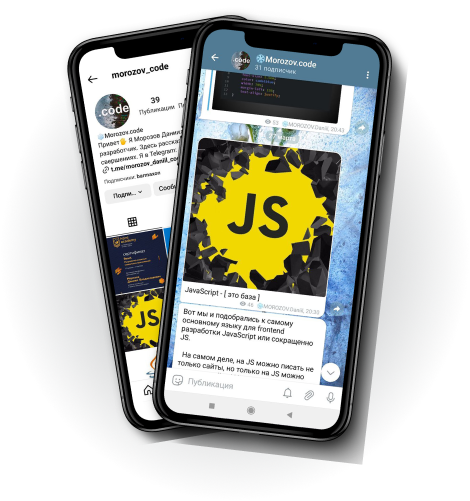
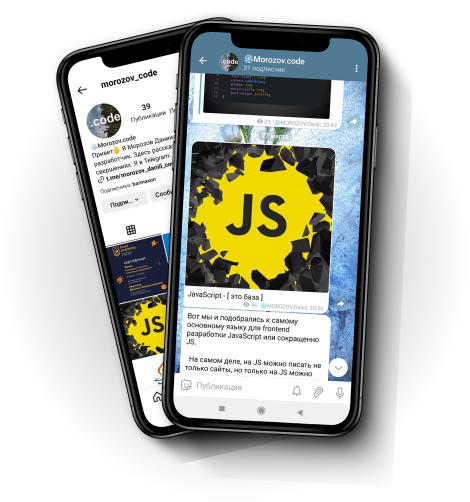
Задаст стили для blog

Changed region(s): [[0.1191, 0.0299, 0.8638, 0.9581]]

diff --git a/style.css b/style.css
@@ -274,37 +274,96 @@ section {
 	border: unset;
 }
 
-.blog {}
+.blog {
+	background-image: url('img/background/blog.png');
+	background-position: top center;
+}
 
 .blog__container {}
 
-.blog__block--title {}
+.blog__block--title {
+	padding-top: 8.5rem;
+}
 
-.blog__title {}
+.blog__title {
+	height: 10rem;
+	display: flex;
+	align-items: center;
+	padding-left: 2rem;
+	border-left: 1rem solid #FFF678;
+	color: rgba(255, 255, 255, 0.60);
+}
 
-.blog__block--description {}
+.blog__block--description {
+	display: flex;
+	justify-content: space-evenly;
+}
 
-.blog__img {}
+.blog__img {
+	width: 50rem;
+	height: 47rem;
+	background: url('img/smartphone.png') no-repeat center;
+}
 
 .blog__wrapper {}
 
-.blog__wrap-text {}
+.blog__wrap-text {
+	padding-top: 4rem;
+	margin-bottom: 4rem;
+}
 
-.blog__text {}
+.blog__text--yellow {
+	color: #FDEC0B;
+	font-size: 2rem;
+	font-weight: 700;
+}
 
-.blog__text--yellow {}
+.blog__text {
+	width: 31rem;
+	color: #FFF;
+	font-size: 2rem;
+	line-height: 168%;
+}
 
-.blog__wrap-links {}
+.blog__wrap-links {
+	width: 42rem;
+	height: 15.7rem;
+	display: flex;
+	flex-direction: column;
+	justify-content: space-evenly;
+	border-radius: 2rem;
+	background: rgba(217, 217, 217, 0.20);
+	padding-left: 3rem;
+}
 
 .blog__wrap-link {}
 
-.blog__link {}
+.blog__link {
+	display: flex;
+	align-items: center;
+	justify-content: space-between;
+}
 
-.blog__link-text {}
+.blog__link-text {
+	color: #FFF;
+	font-size: 2rem;
+}
 
-.blog__link-text--bold {}
+.blog__link-text--bold {
+	font-weight: 700;
+	/* line-height: 156.023%; */
+	text-decoration-line: underline;
+}
 
-.blog__link-btn {}
+.blog__link-btn {
+	width: 8.8rem;
+	height: 3.9rem;
+	border: .3rem solid #b6b7b9;
+	border-radius: 1.6rem;
+	background: url('img/icon/btn-arrow.svg') no-repeat center;
+	margin-right: 3rem;
+
+}
 
 .profile {}
 

diff --git a/index.html b/index.html
@@ -129,7 +129,7 @@
                 <span class="blog__text--yellow">
                   Веду профессиональный блог
                 </span>
-                где рассказываю о своем пути развития в веб-разработке
+                где рассказываю о своем пути и развитии в веб-разработке
               </p>
             </div>
             <div class="blog__wrap-links">
